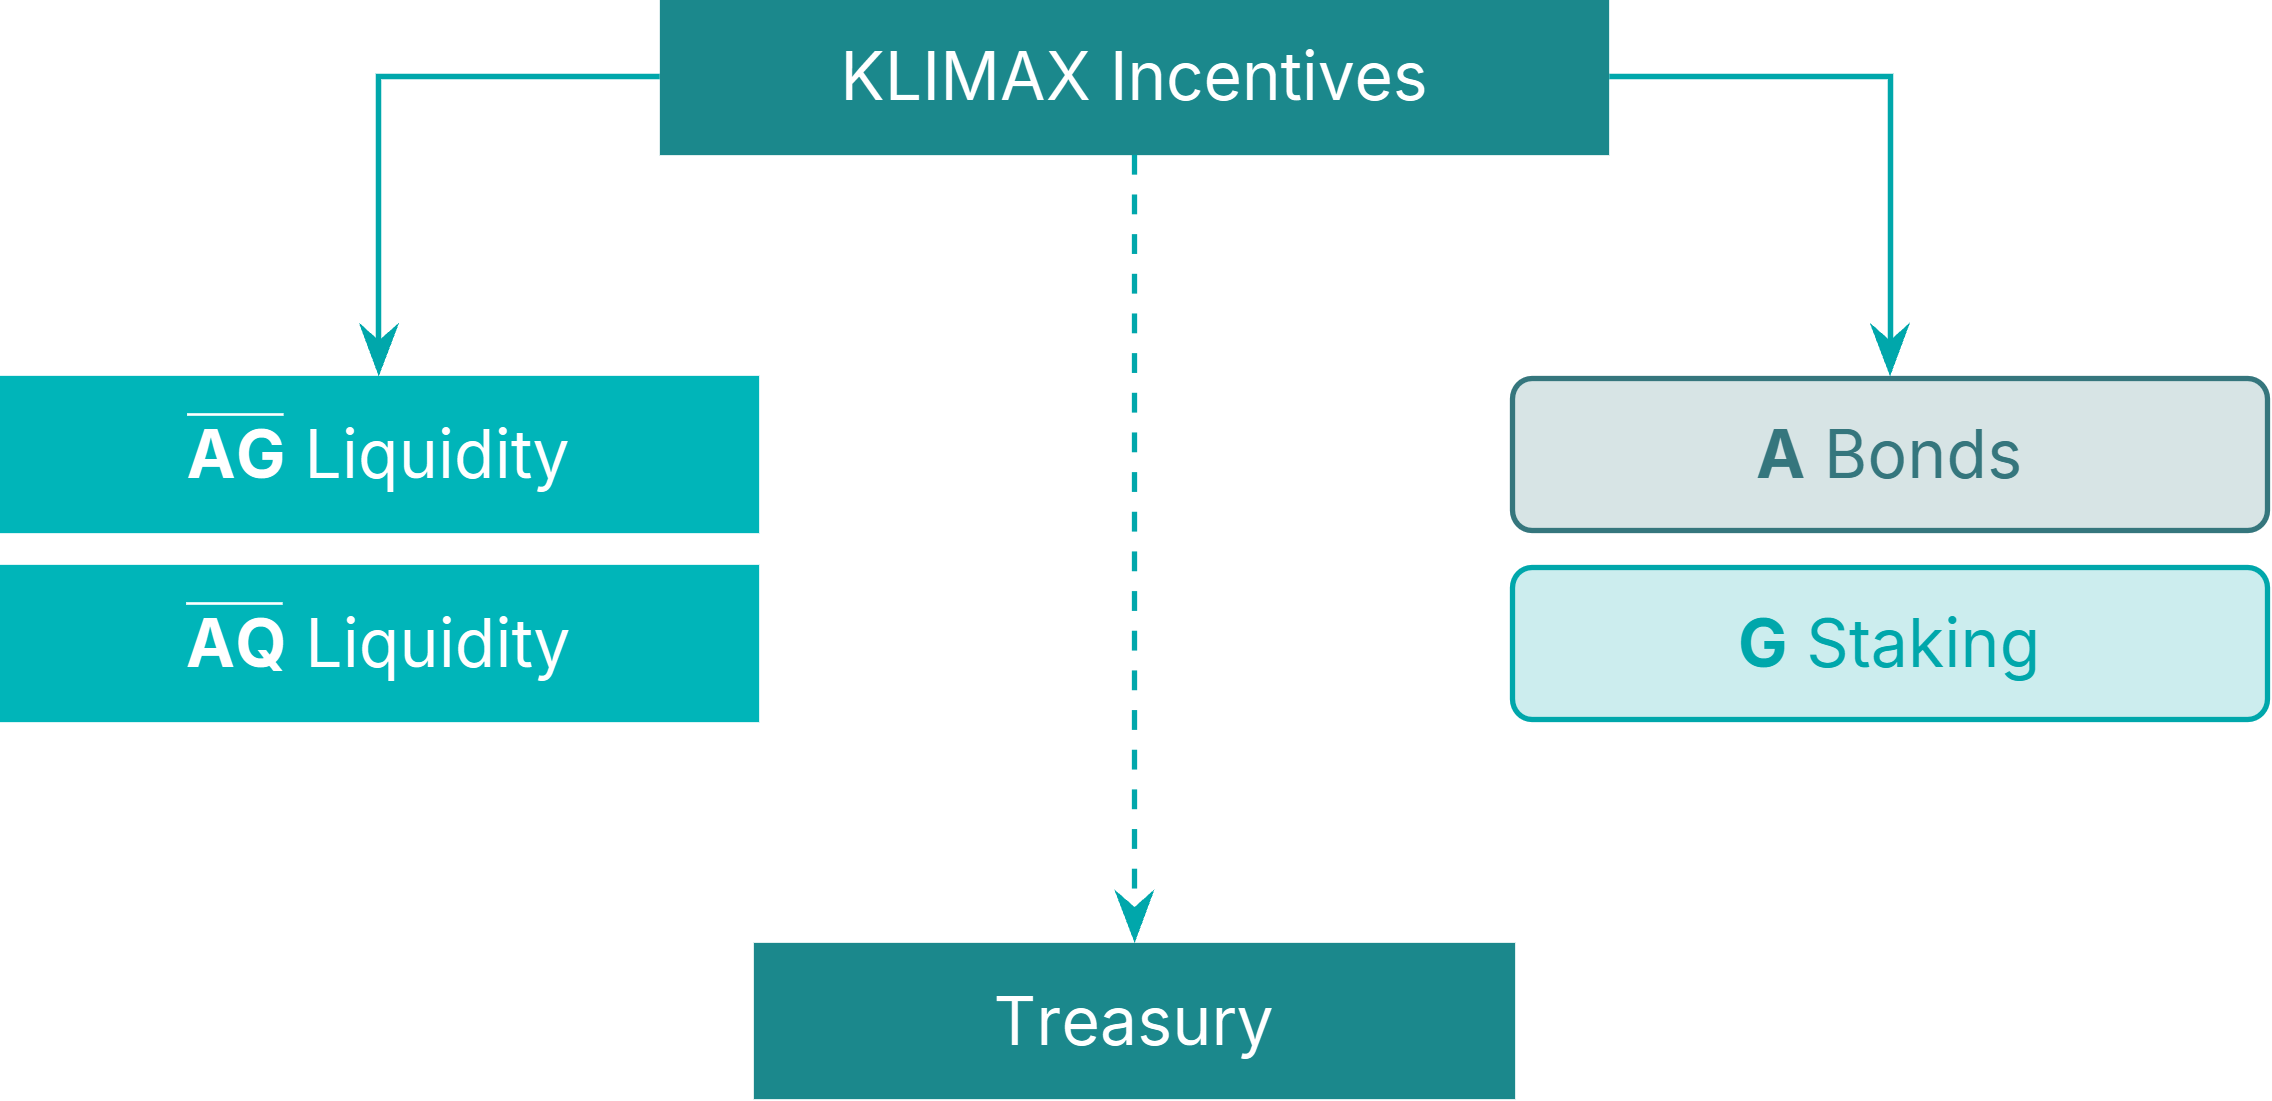
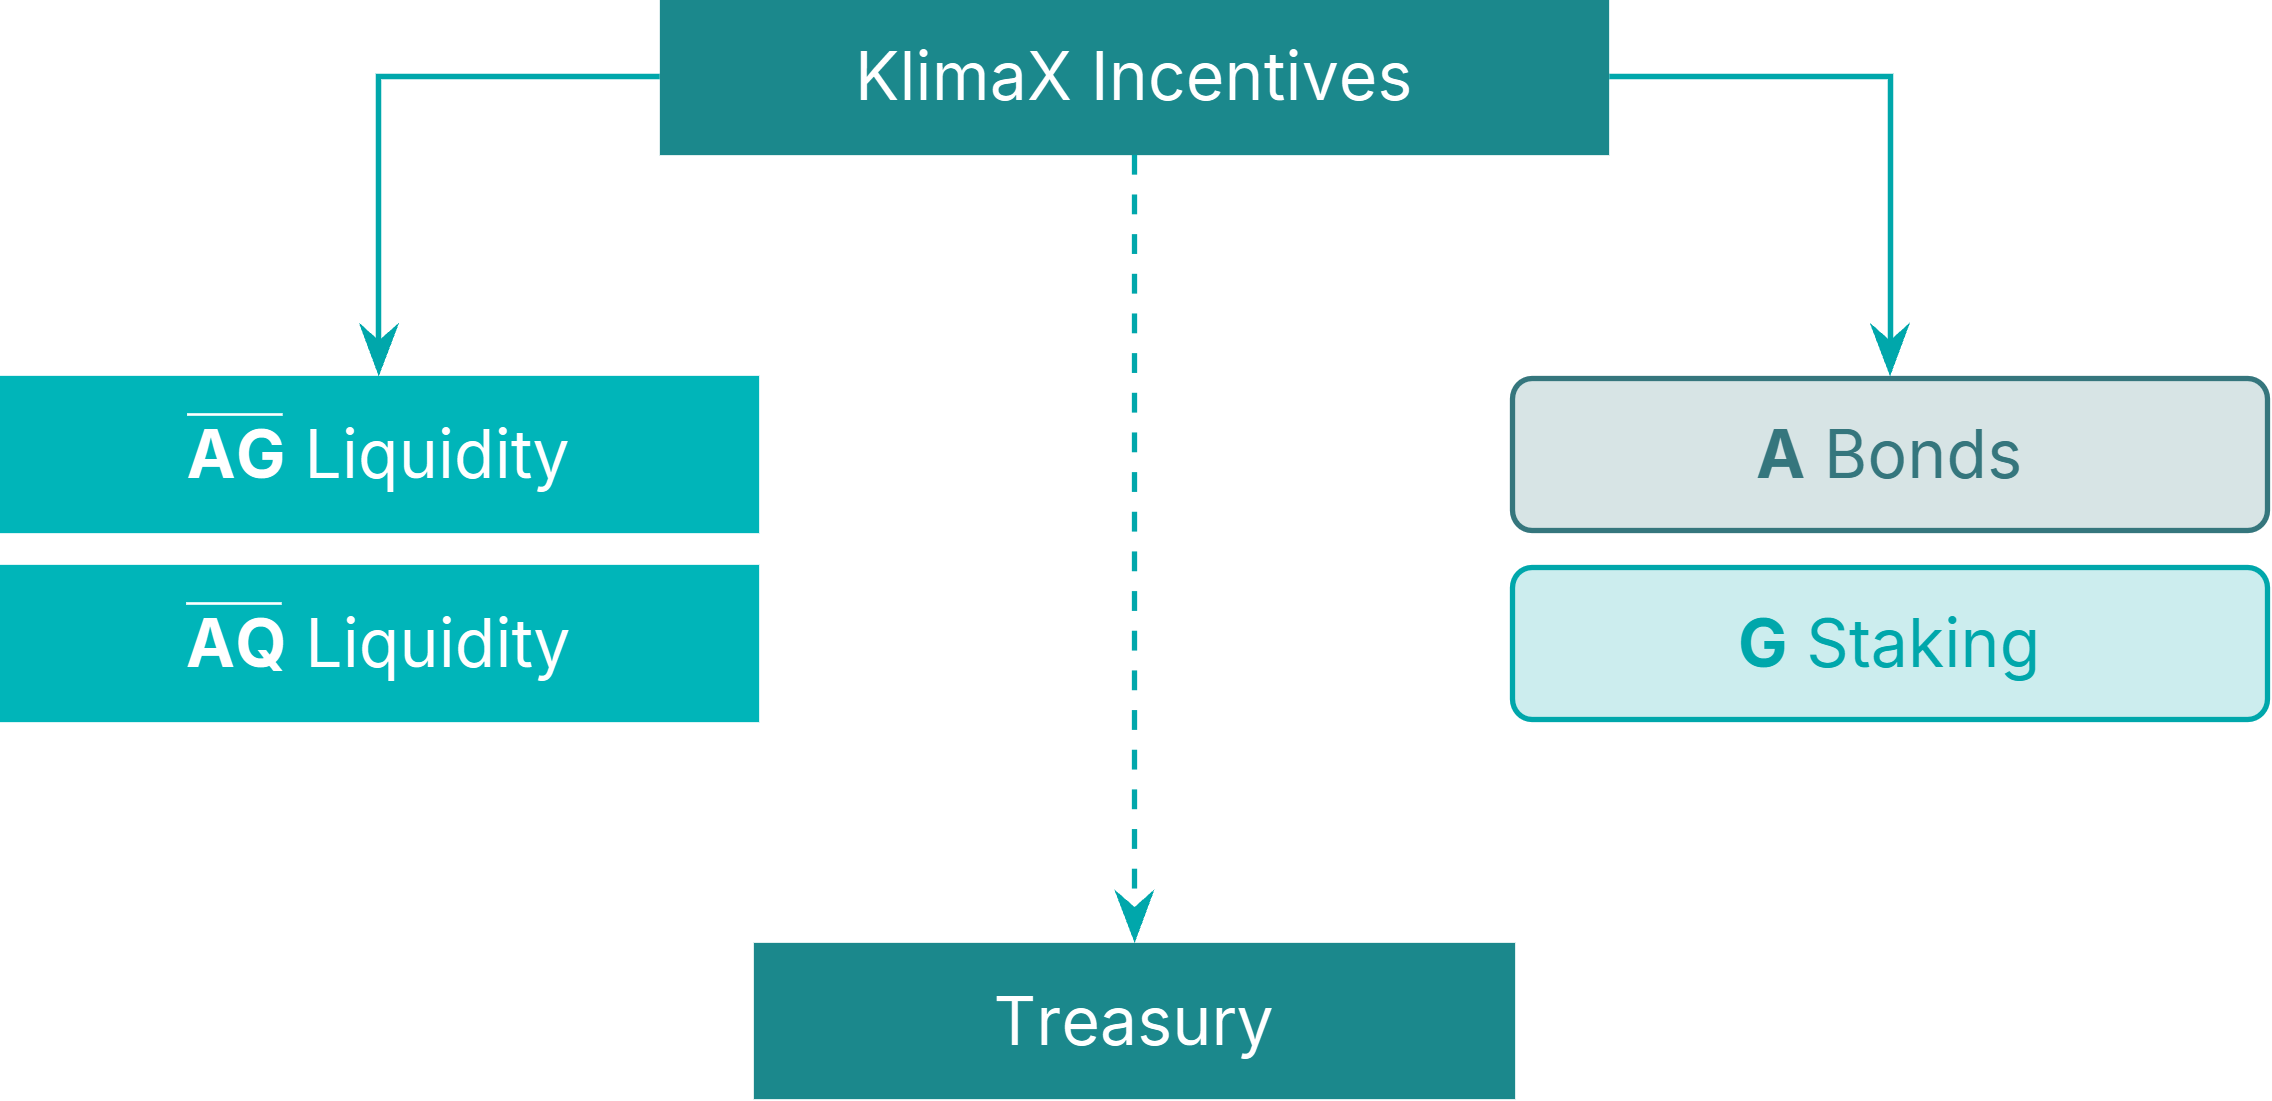
Change KLIMAX to KlimaX

Changed region(s): [[0.375, 0.0309, 0.625, 0.0926]]

diff --git a/src/whitepaper.md b/src/whitepaper.md
@@ -84,7 +84,7 @@ Carbon assets. These tokens are used to buy and sell Carbon as in
 2. A **Risk Governance** token that combines with the capital token to shape the
 risk profile of the underlying Carbon portfolio.
 
-The new tokens are named KLIMA and KLIMAX respectively, noting that the original
+The new tokens are named KLIMA and KlimaX respectively, noting that the original
 token name carries through to the Asset Token reflecting the original utility.
 For the purposes of the document we shall refer to these tokens as&nbsp;**A**
 and&nbsp;**G** where brevity is required.
@@ -267,7 +267,7 @@ Both tokens facilitate the Klima Carbon market to function efficiently with the
       <td>
       <td class="u-gray">Sets discount curve for foward pricing
     <tr>
-      <td>KLIMAX <strong>G</strong>&nbsp;Token
+      <td>KlimaX <strong>G</strong>&nbsp;Token
       <td>100&nbsp;million
       <td>Fixed supply
     <tr>
@@ -1900,15 +1900,15 @@ const stringTruePresentTonnes = inputPresentTonnes.toLocaleString(
     maximumFractionDigits: Math.max(0, 1 - numberOfDigits(paramDeltaTonnes)),
   },
 ) + " tCO2eq";
-const stringTildeCnull = inputTildeCnull.toLocaleString(
+const stringTildeCnull_ = inputTildeCnull.toLocaleString(
   "en-GB",
   {
     minimumFractionDigits: Math.max(0, 1 - numberOfDigits(paramDeltaTonnes)),
     maximumFractionDigits: Math.max(0, 1 - numberOfDigits(paramDeltaTonnes)),
   },
 ) + " tCO2eq";
-const isImplied = inputPresentTonnes === 0;
-const stringPresentTonnes = (isImplied ? `(${stringTildeCnull} implied) `: "") +
+const isImpl = inputPresentTonnes === 0;
+const stringPresentTonnes = (isImpl ? `(${stringTildeCnull_} implied) `: "") +
         stringTruePresentTonnes;
 const stringAEmitted = "+" + paramAEmitted.toLocaleString(
   "en-GB",
@@ -2522,7 +2522,7 @@ Thereafter each time bucket allocation is proportionate to LP&nbsp;holdings.
 | 01X            | 2.5%       | 0.5               |
 | Total          |            | 20                |
 
-<p class="u-center">Table&nbsp;4: KLIMAX Token
+<p class="u-center">Table&nbsp;4: KlimaX Token
 
 <table>
   <thead>
@@ -2578,9 +2578,9 @@ Thereafter each time bucket allocation is proportionate to LP&nbsp;holdings.
   </tbody>
 </table>
 
-<p id="figure-20" class="u-center">Figure&nbsp;20: Allocations: KLIMAX Token
+<p id="figure-20" class="u-center">Figure&nbsp;20: Allocations: KlimaX Token
 
-![Allocations: KLIMAX Token](whitepaper/figure-20.webp)
+![Allocations: KlimaX Token](whitepaper/figure-20.webp)
 
 ### 9.2 Programmatic Incentive Curve
 
@@ -2616,15 +2616,15 @@ ${tex`P_0`} set at&nbsp;7.0% and&nbsp;${tex`T`} at 24&nbsp;months:
 
 ![Incentive Issuance](whitepaper/figure-21.webp)
 
-<p id="figure-22" class="u-center">Figure&nbsp;22: KLIMAX Token Supply Over Time
+<p id="figure-22" class="u-center">Figure&nbsp;22: KlimaX Token Supply Over Time
 
-![KLIMAX Token Supply Over Time, Cohort: Circulating Supply (Stacked)](whitepaper/figure-22a.webp)
+![KlimaX Token Supply Over Time, Cohort: Circulating Supply (Stacked)](whitepaper/figure-22a.webp)
 
-![KLIMAX Token Supply Over Time, Class: Total Supply (Stacked)](whitepaper/figure-22b.webp)
+![KlimaX Token Supply Over Time, Class: Total Supply (Stacked)](whitepaper/figure-22b.webp)
 
-![KLIMAX Token Supply Over Time, Class: Total Supply (Unstacked)](whitepaper/figure-22c.webp)
+![KlimaX Token Supply Over Time, Class: Total Supply (Unstacked)](whitepaper/figure-22c.webp)
 
-<p id="figure-23" class="u-center">Figure&nbsp;23: KLIMAX Token Supply Risk
+<p id="figure-23" class="u-center">Figure&nbsp;23: KlimaX Token Supply Risk
   Metrics
 
 ![Cohort: Total Supply Differential (Stacked)](whitepaper/figure-23a.webp)
